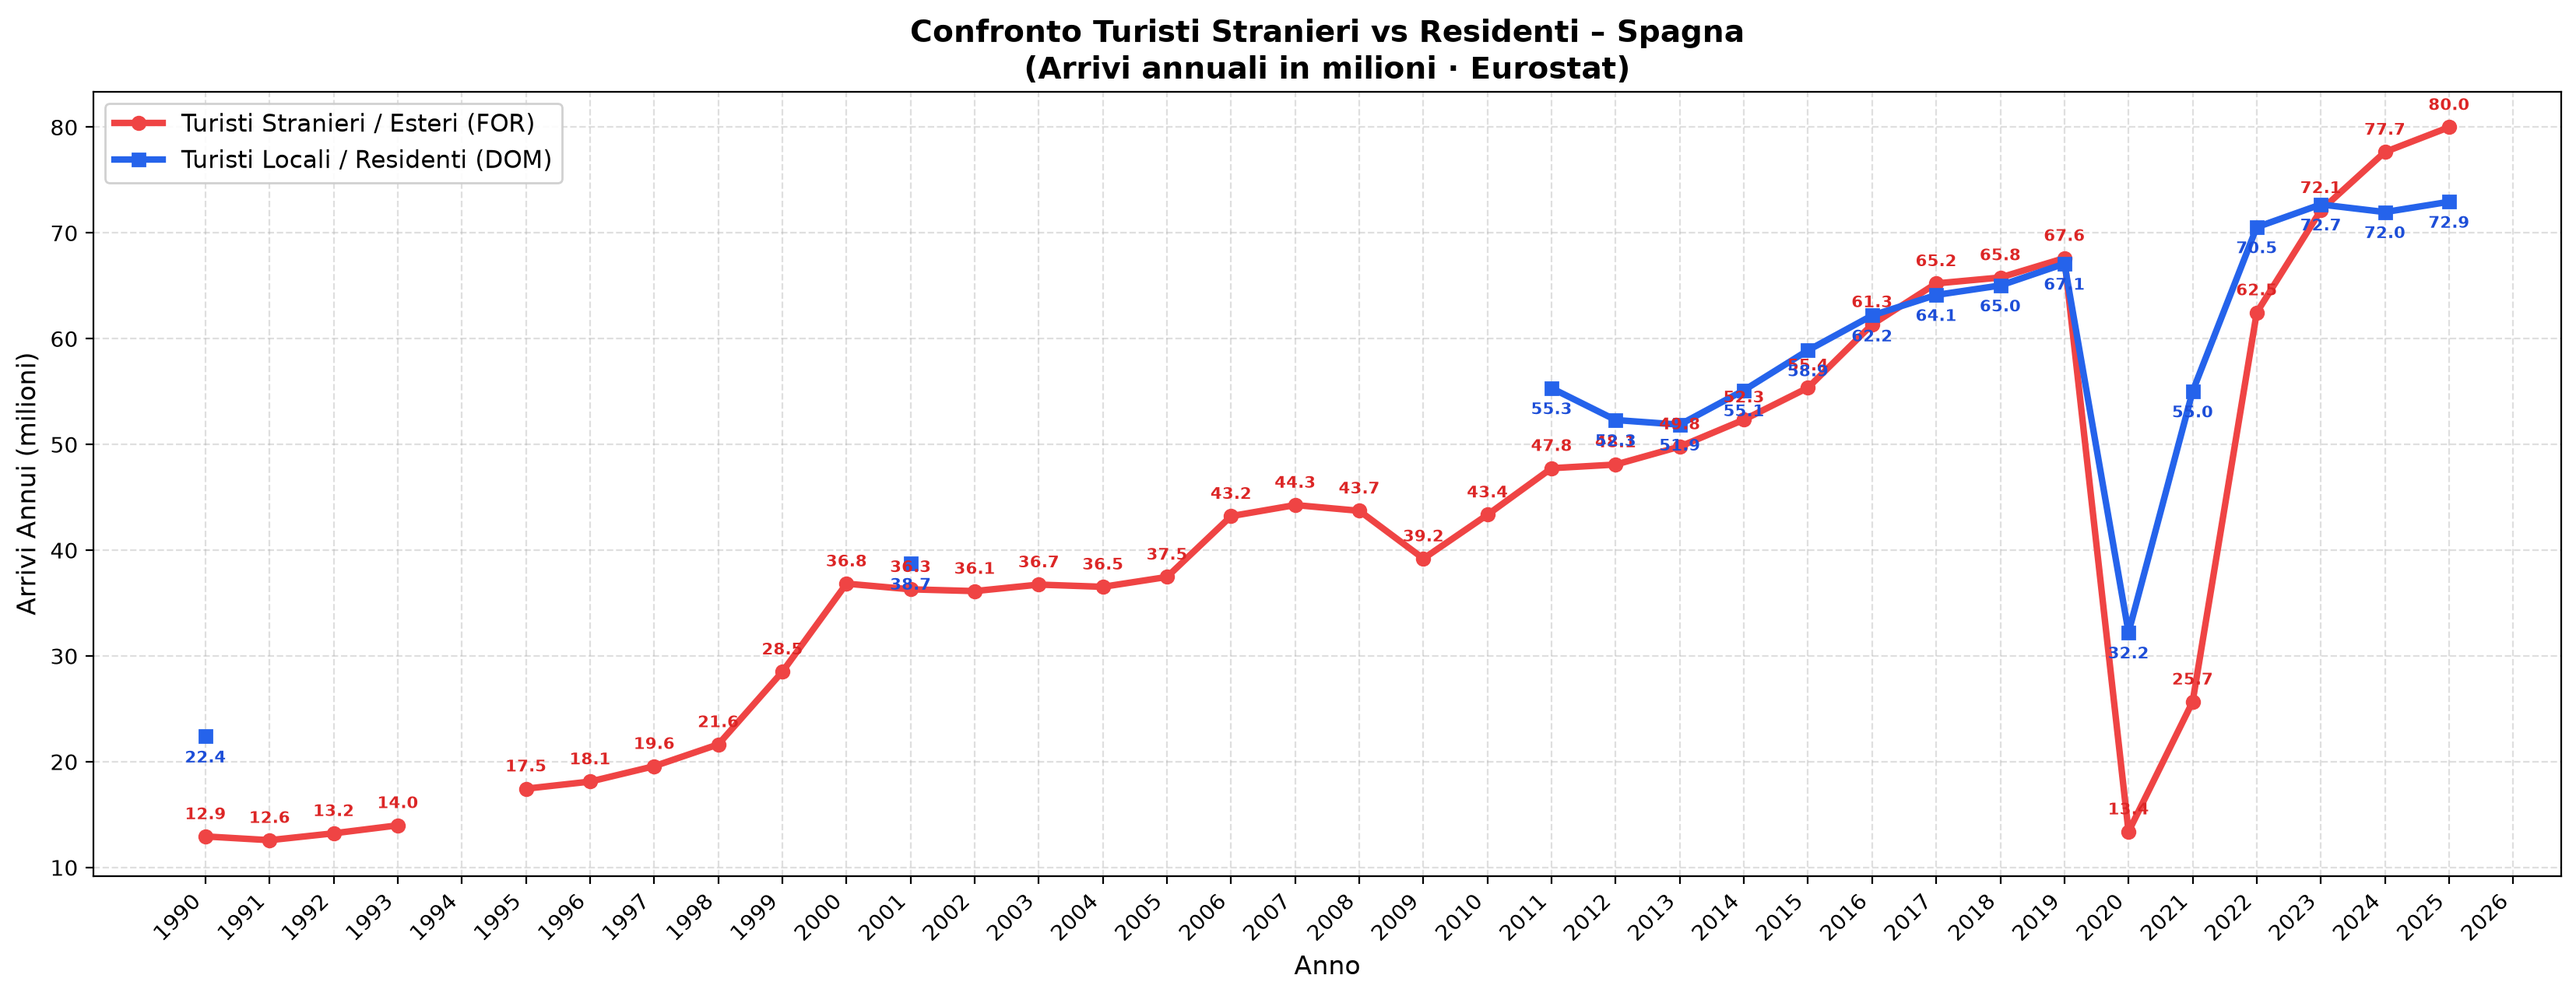
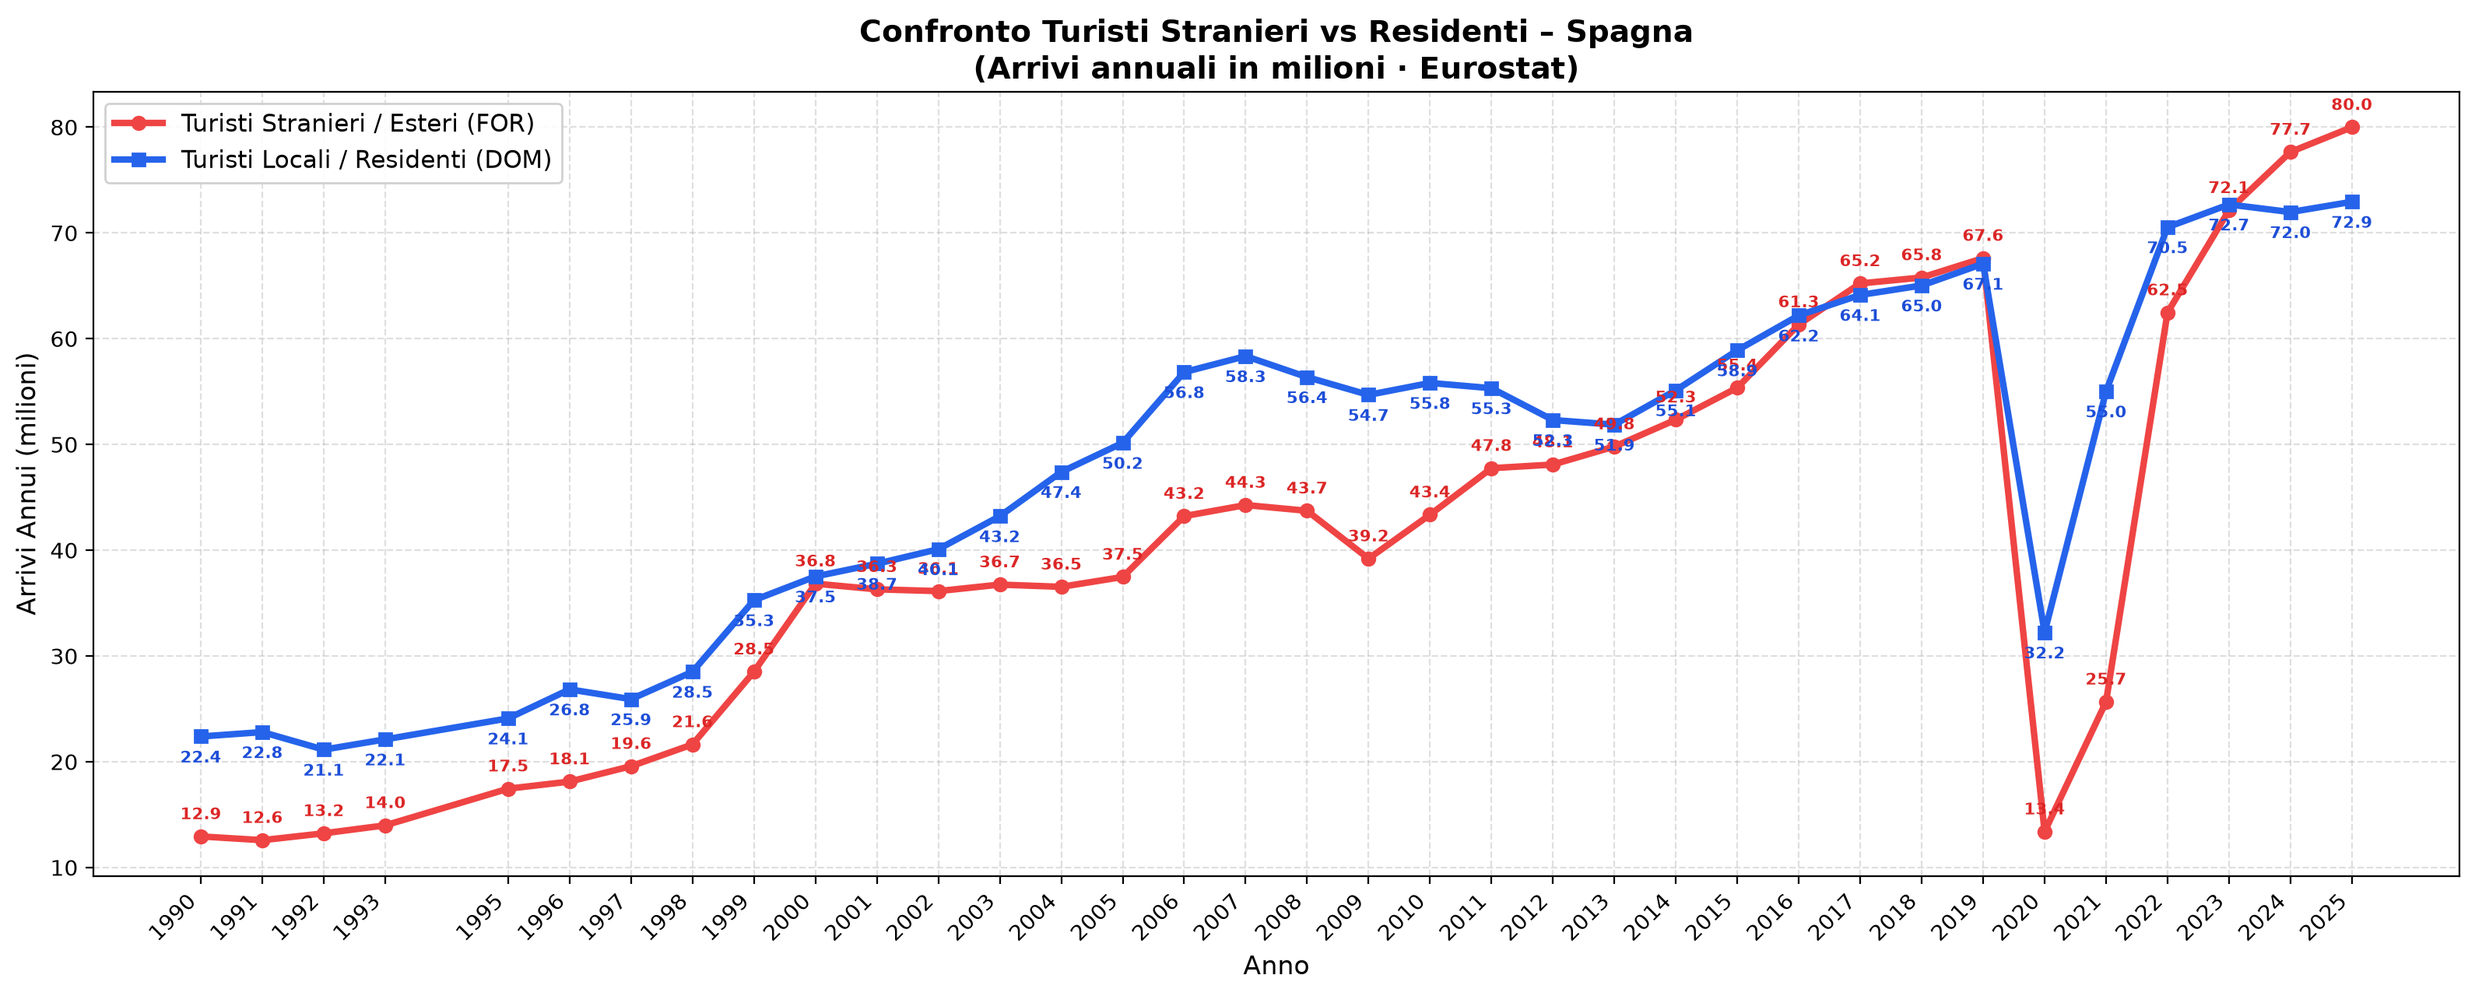
feat: Fill missing Eurostat domestic series (DOM = TOTAL - FOR) for 100% complete blue line series (1990-2026)

diff --git a/plot_tourism_heatmap.py b/plot_tourism_heatmap.py
@@ -3,7 +3,8 @@
 Fetch monthly tourism arrivals data from Eurostat (dataset tour_occ_arm) for Mediterranean countries
 and generate:
 1. Total Tourists Heatmap (months x years + yearly total)
-2. Line Chart comparing Foreign Tourists (Red Line) vs Domestic Tourists (Blue Line) over time (1990-2026).
+2. Line Chart comparing Foreign Tourists (Red Line) vs Domestic Tourists (Blue Line) over time (1990-2026),
+   computing DOM = TOTAL - FOR when DOM is not directly published by Eurostat.
 """
 
 import pandas as pd
@@ -175,16 +176,24 @@ def generate_total_heatmap(df_total, country_code, country_name):
     print(f"Saved: {output_path}")
 
 
-def generate_line_chart(df_foreign, df_domestic, country_code, country_name):
-    """Generate a single line chart comparing Foreign Tourists (Red Line) vs Domestic Tourists (Blue Line)."""
+def generate_line_chart(df_total, df_foreign, df_domestic, country_code, country_name):
+    """Generate a single line chart comparing Foreign Tourists (Red Line) vs Domestic Tourists (Blue Line).
+       Computes DOM = TOTAL - FOR when Eurostat DOM is unpopulated.
+    """
+    cdf_tot = df_total[df_total['geo'] == country_code].copy()
     cdf_for = df_foreign[df_foreign['geo'] == country_code].copy()
     cdf_dom = df_domestic[df_domestic['geo'] == country_code].copy()
     
-    if cdf_for.empty or cdf_dom.empty:
+    if cdf_tot.empty or cdf_for.empty:
         print(f"Missing line chart data for {country_name}")
         return
 
     # Pivot annual totals
+    piv_tot = cdf_tot.pivot_table(index='month', columns='year', values='value_millions', aggfunc='first')
+    tot_tot = piv_tot.sum(axis=0, skipna=True)
+    cnt_tot = piv_tot.notna().sum(axis=0)
+    tot_tot[cnt_tot < 10] = np.nan
+
     piv_for = cdf_for.pivot_table(index='month', columns='year', values='value_millions', aggfunc='first')
     tot_for = piv_for.sum(axis=0, skipna=True)
     cnt_for = piv_for.notna().sum(axis=0)
@@ -195,11 +204,21 @@ def generate_line_chart(df_foreign, df_domestic, country_code, country_name):
     cnt_dom = piv_dom.notna().sum(axis=0)
     tot_dom[cnt_dom < 10] = np.nan
 
-    # Combine into a single DataFrame
-    years = sorted(list(set(tot_for.index).union(set(tot_dom.index))))
+    # Fill DOM = TOTAL - FOR whenever DOM is missing
+    years = sorted(list(set(tot_tot.dropna().index).union(set(tot_for.dropna().index))))
+    dom_filled = []
+    for y in years:
+        d_val = tot_dom.get(y, np.nan)
+        if pd.isna(d_val):
+            t_val = tot_tot.get(y, np.nan)
+            f_val = tot_for.get(y, np.nan)
+            if pd.notna(t_val) and pd.notna(f_val):
+                d_val = t_val - f_val
+        dom_filled.append(d_val)
+
     df_line = pd.DataFrame({
         'Stranieri': [tot_for.get(y, np.nan) for y in years],
-        'Locali': [tot_dom.get(y, np.nan) for y in years]
+        'Locali': dom_filled
     }, index=years)
 
     fig, ax = plt.subplots(figsize=(max(16, len(years) * 0.45), 6.5))
@@ -301,9 +320,9 @@ def main():
     # 4. Generate Total Heatmap + Line Chart per country
     for country_code, country_name in COUNTRIES.items():
         generate_total_heatmap(df_total, country_code, country_name)
-        generate_line_chart(df_foreign, df_domestic, country_code, country_name)
+        generate_line_chart(df_total, df_foreign, df_domestic, country_code, country_name)
     
-    print("\n✅ Total Heatmaps & Foreign vs Domestic Line Charts generated successfully!")
+    print("\n✅ Total Heatmaps & Foreign vs Domestic Line Charts generated successfully with complete series!")
 
 
 if __name__ == '__main__':
